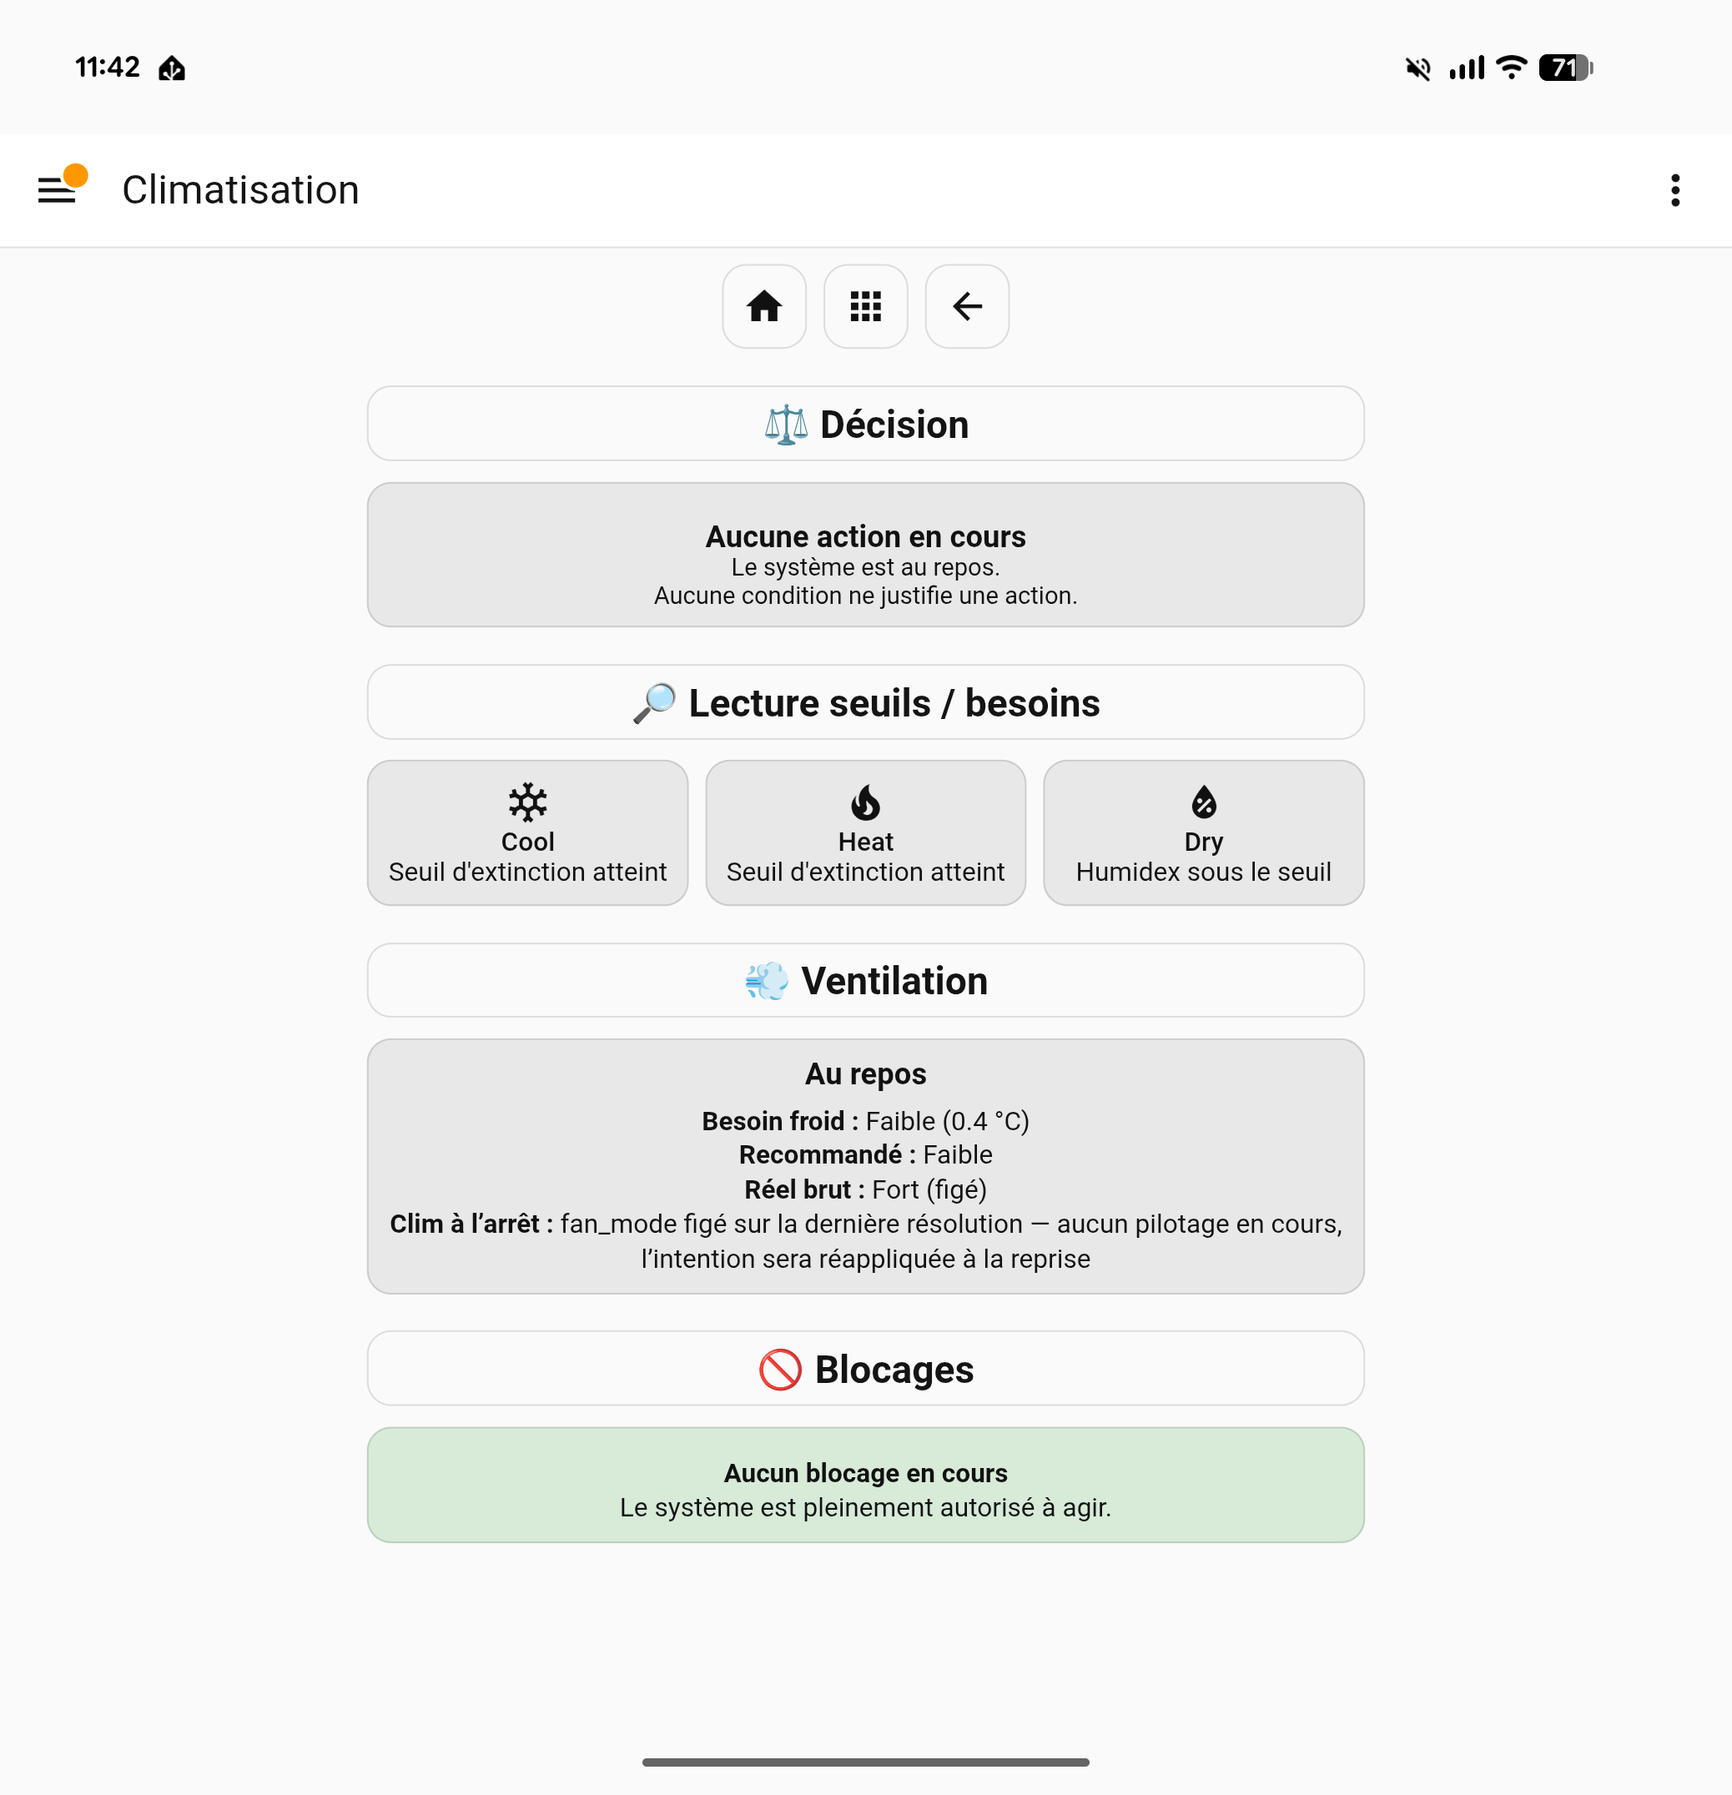
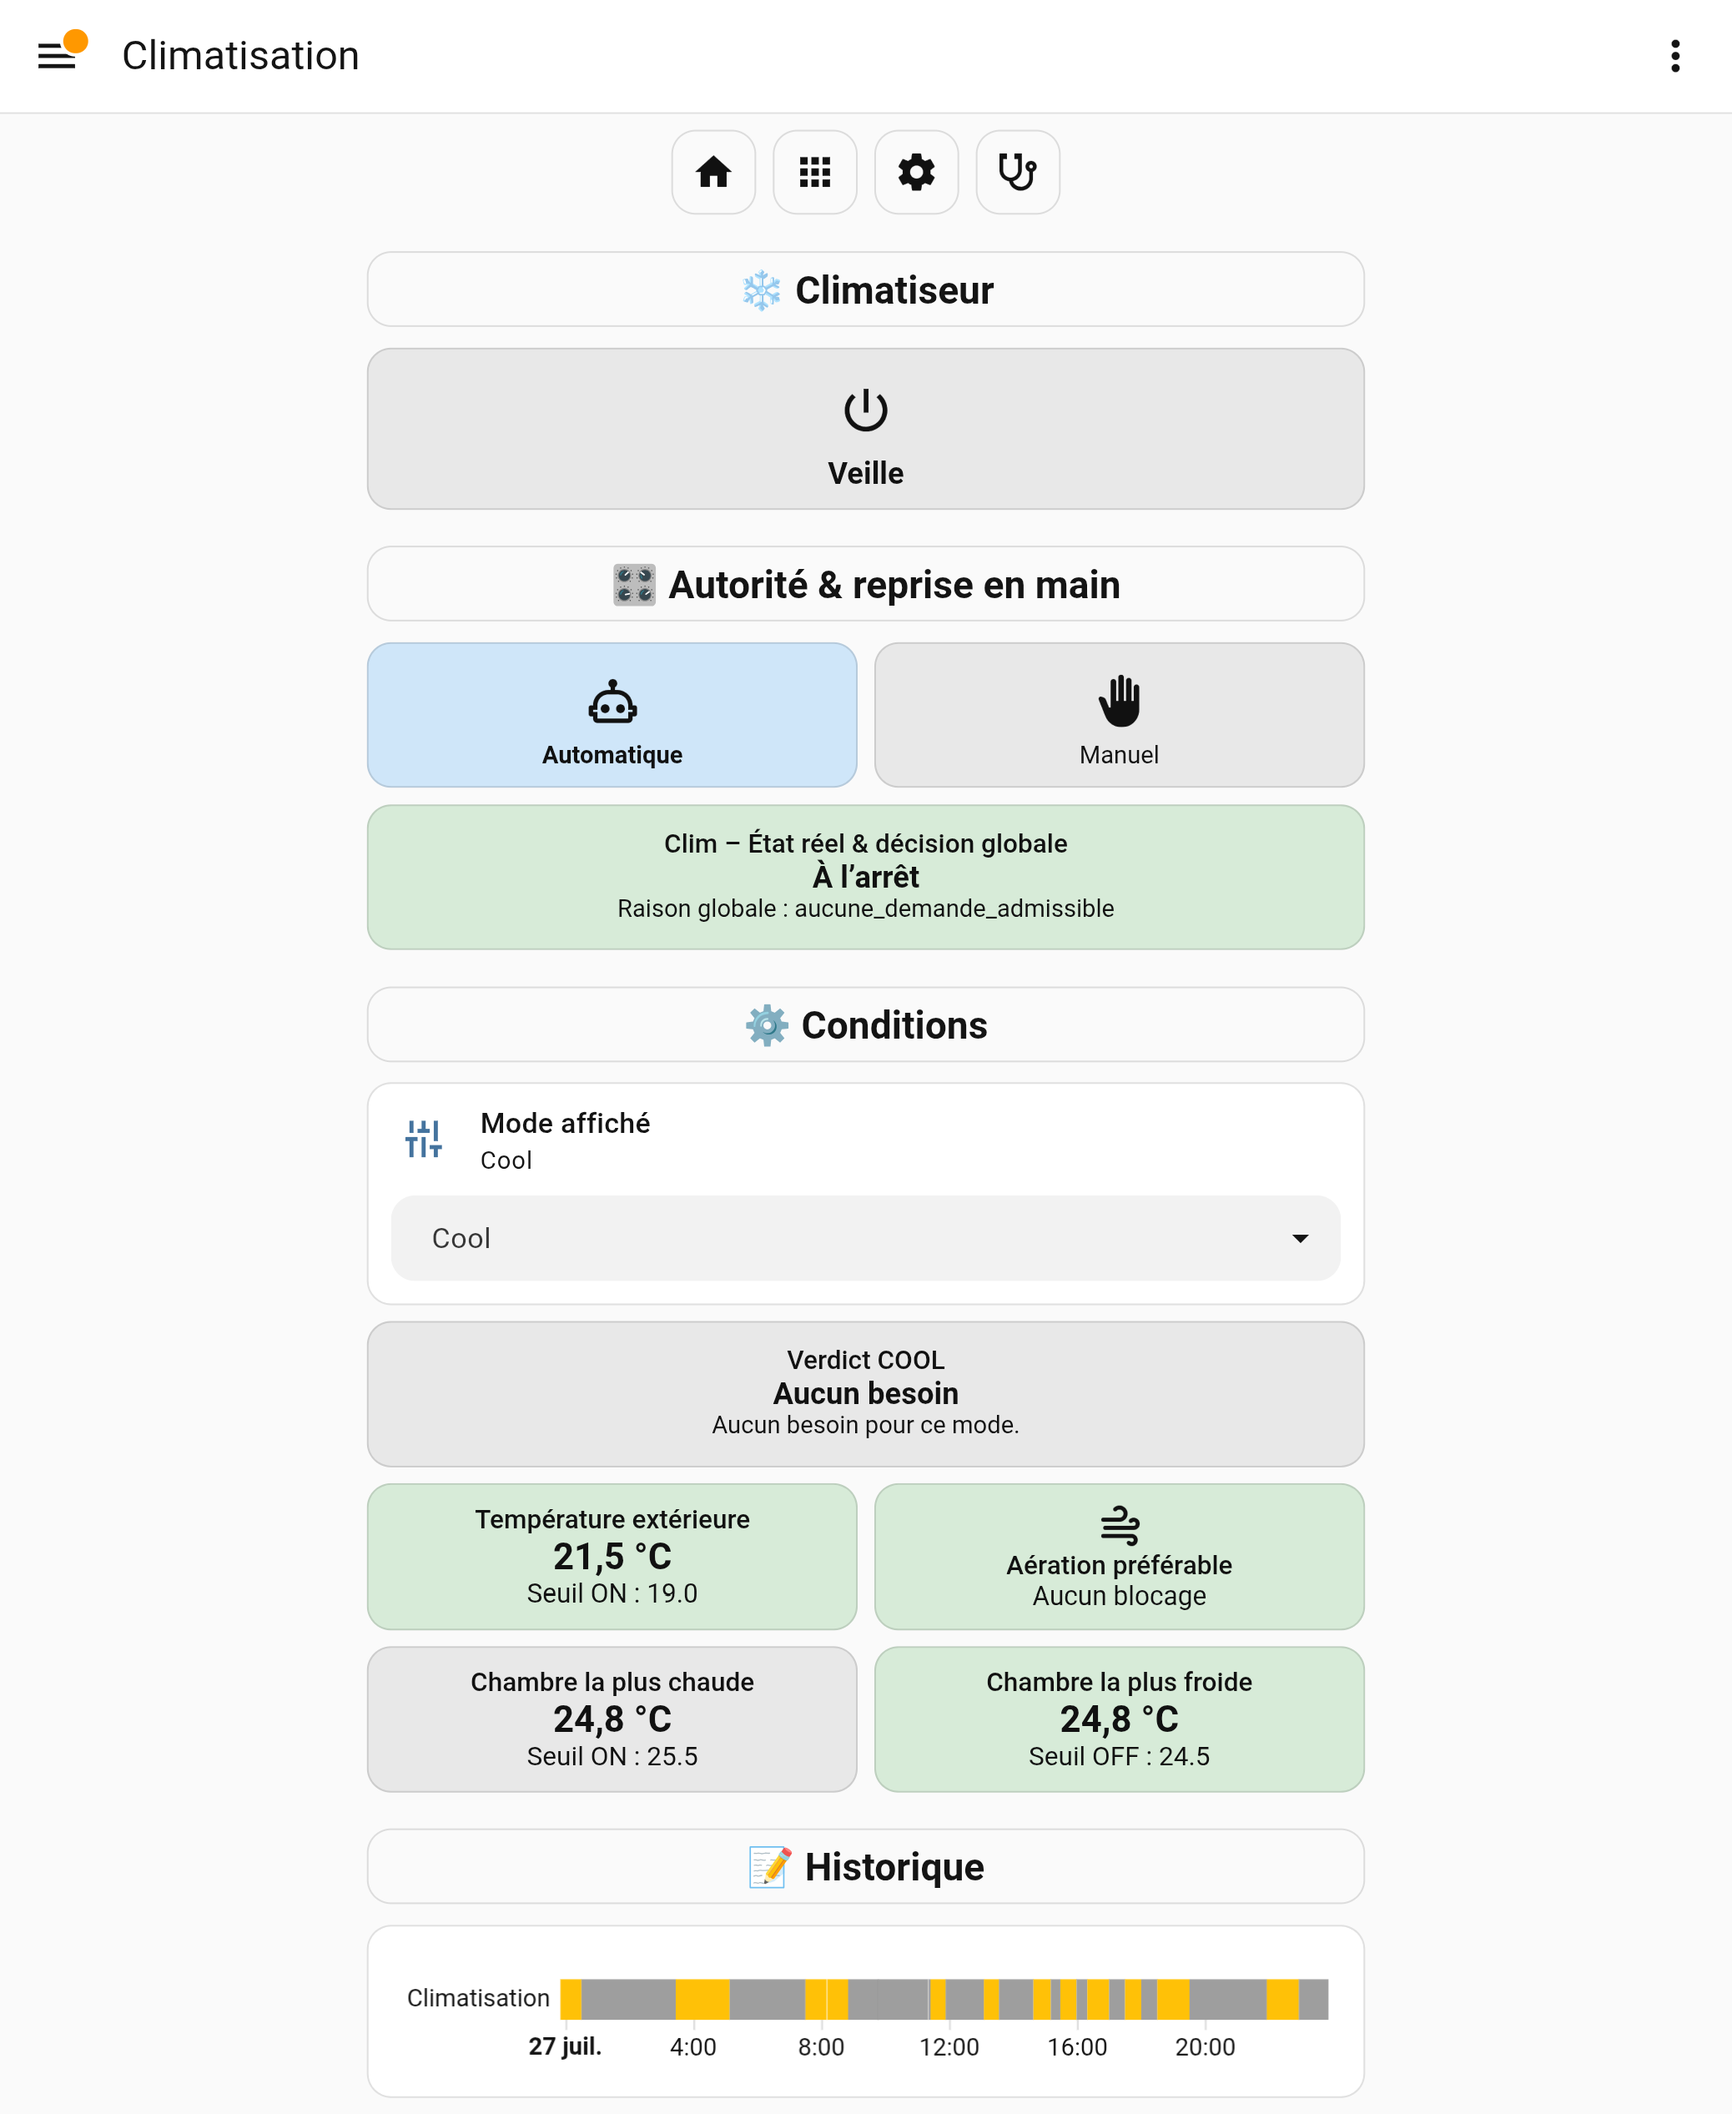
docs(readme): rafraîchir la capture clim principal (UI actuelle, régime auto)
L'ancienne climatisation-principal.png montrait l'UI d'avant l'autorité de
domaine (carte Ventilation, retirée en #609, et sans carton Autorité). La
remplacer par la vue actuelle en régime automatique (Autorité & reprise en
main, décision globale, verdict), au format du dépôt (pleine largeur,
ascenseur effacé). Légendes FR + EN mises à jour.

Claude-Session: https://claude.ai/code/session_013pgQTf6uv4Zn4RhxMsgCoX

diff --git a/README.fr.md b/README.fr.md
@@ -95,7 +95,7 @@ Quelques vues, telles qu'elles tournent. Elles sont **denses par conception** : 
 *Palmarès météo : pas la météo du jour mais la mémoire climatique de la maison — un top 10 persistant (chaleur, froid, nuits chaudes, pluie), classé et daté côté backend, restitué en lecture seule. Les dates FR `DD/MM/YYYY` sont dérivées côté backend ; la carte n'applique aucun formatage. Le sélecteur est un pur contexte d'interface — il ne pilote rien.*
 
 ![Vue Climatisation — principal : état, décision et verdict](00_documentation_arsenal/ui/captures/climatisation-principal.png)<br>
-*Climatisation — principal : le backend décide et affiche son verdict ; l'UI observe.*
+*Climatisation — principal (régime automatique) : autorité tenue par Arsenal ; le backend décide et affiche son verdict (ici « à l'arrêt ») ; l'UI observe.*
 
 ![Vue diagnostic de la climatisation — chaîne interne de décision](00_documentation_arsenal/ui/captures/climatisation-diagnostic.png)<br>
 *Climatisation — diagnostic : la chaîne interne, seuils et blocages. Même domaine, deux profondeurs de lecture.*

diff --git a/README.md b/README.md
@@ -91,7 +91,7 @@ A few live views, as they run. They are **dense by design**: the UI observes sta
 *Weather leaderboard: not today's weather but the home's climate memory — a persistent top-10 (heat, cold, warm nights, rainfall), ranked and dated on the backend, rendered read-only. Dates are French display strings derived server-side; the card applies no formatting of its own. The selector is pure interface context — it drives nothing.*
 
 ![Air conditioning — main view: state, decision and verdict](00_documentation_arsenal/ui/captures/climatisation-principal.png)<br>
-*Air conditioning — main: the backend decides and shows its verdict; the UI observes.*
+*Air conditioning — main (automatic mode): authority held by Arsenal; the backend decides and shows its verdict (here "at rest"); the UI observes.*
 
 ![Air conditioning diagnostic view — internal decision chain](00_documentation_arsenal/ui/captures/climatisation-diagnostic.png)<br>
 *Air conditioning — diagnostic: the internal chain, thresholds and blocks. Same domain, two reading depths.*
